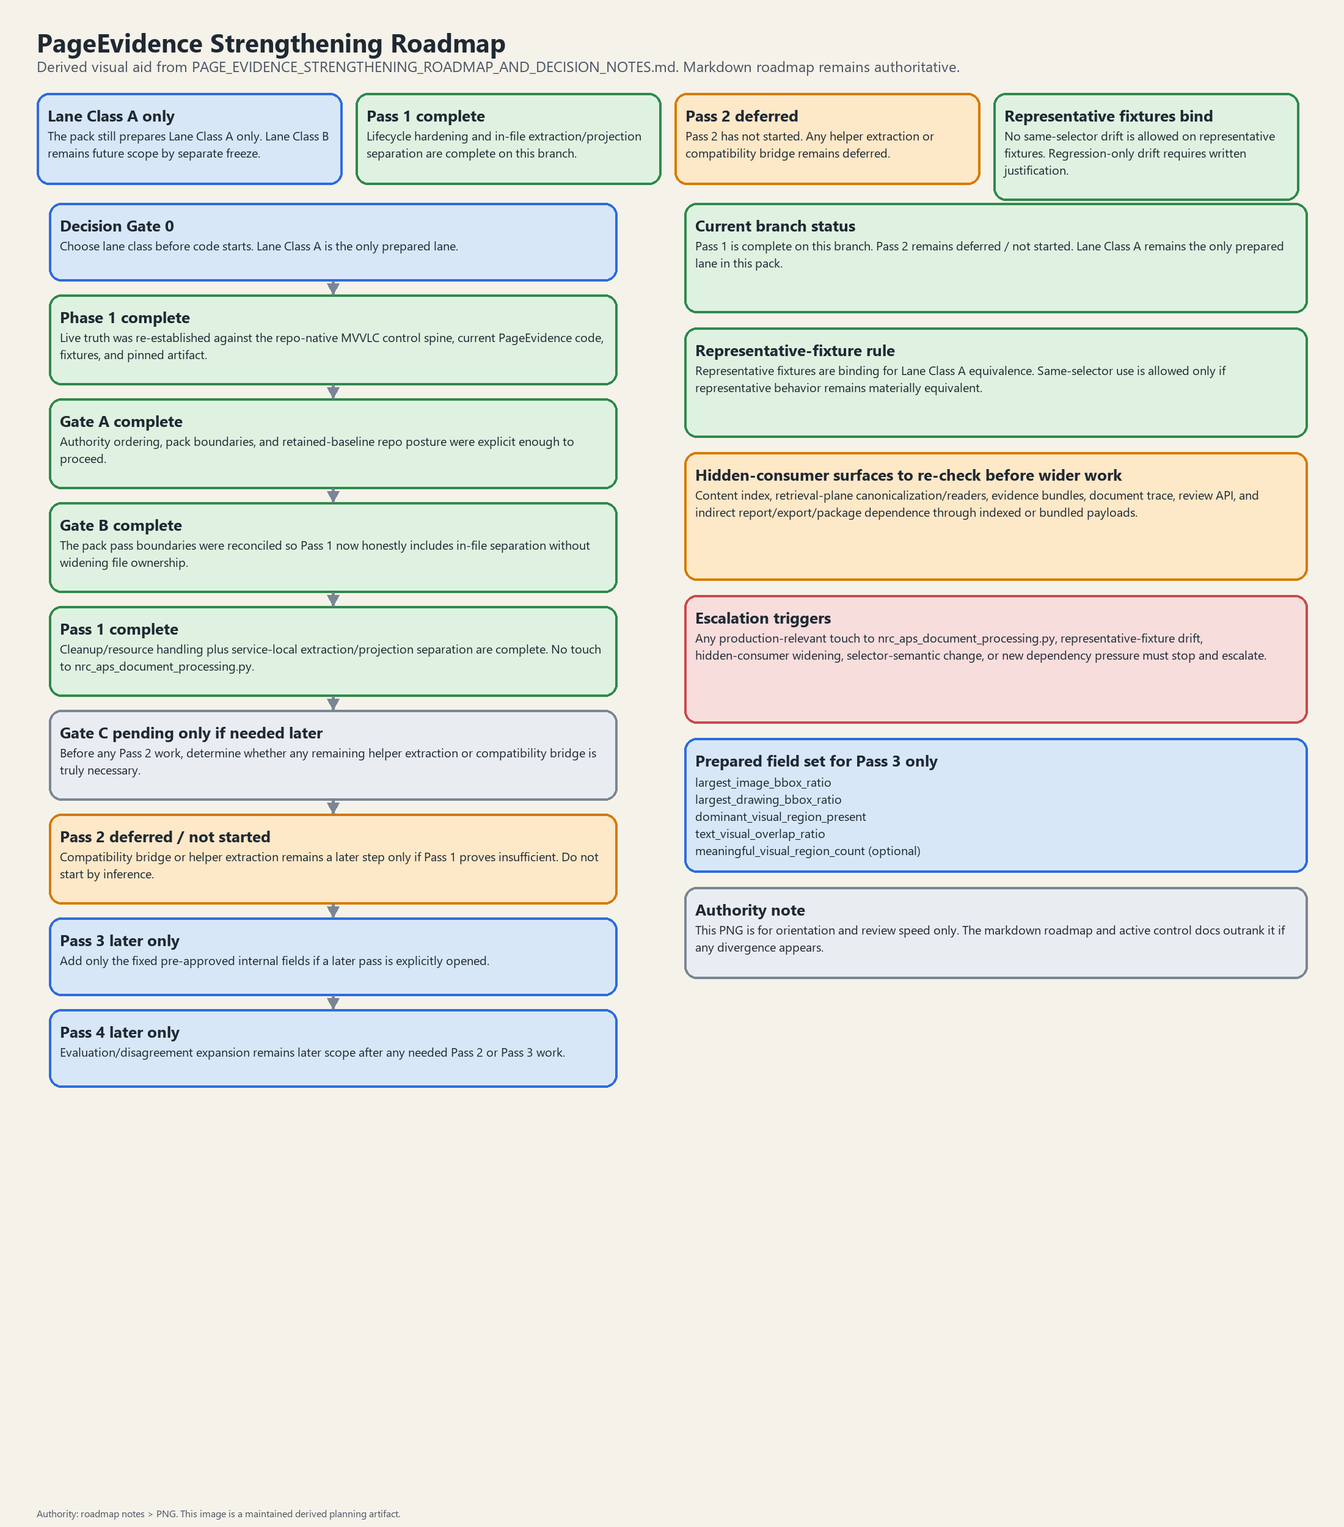
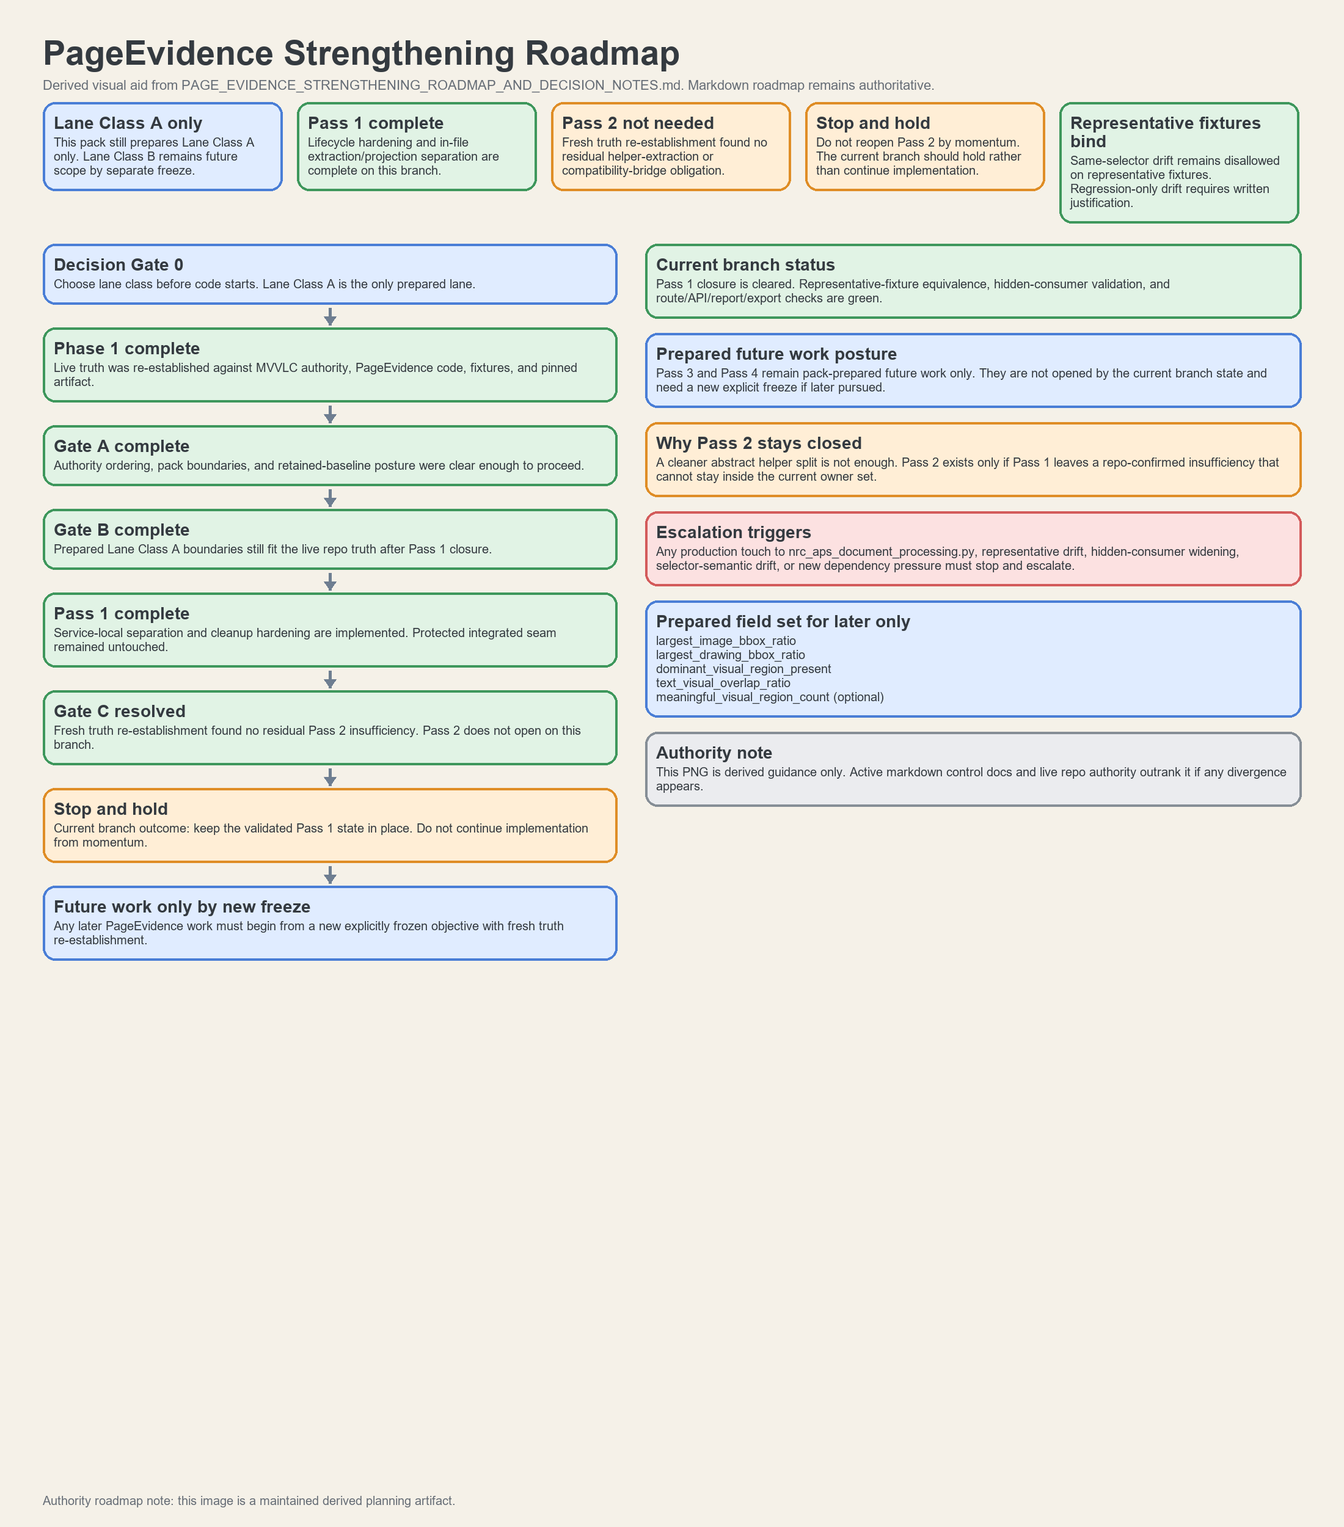
docs(pageevidence): consolidate final closure posture

Changed region(s): [[0.0, 0.0, 0.9891, 0.7176], [0.0309, 0.9672, 0.3091, 0.9984]]

diff --git a/next_milestone_plans/pageevidence/PAGE_EVIDENCE_BLAST_RADIUS_AND_BEFORE_AFTER_TOPOLOGY.md b/next_milestone_plans/pageevidence/PAGE_EVIDENCE_BLAST_RADIUS_AND_BEFORE_AFTER_TOPOLOGY.md
@@ -42,19 +42,29 @@ If it does, the strictest applicable controls govern the whole change set unless
 
 ---
 
-## Current before-state topology
+## Current branch and comparison-baseline topology
 
-### Before-state A — current live reality
+### Before-state A — pre-Pass1 comparison baseline
 
-The current repo topology is:
+The pre-Pass1 baseline topology was:
 
-1. `nrc_aps_page_evidence.py` contains shared evidence extraction, candidate identity, and projected class logic in one place.
+1. At baseline commit `4e89592043867726756aad16805529ae23c8fb6f`, `nrc_aps_page_evidence.py` contained shared evidence extraction, candidate identity, and projected class logic in one place.
 2. `run_nrc_aps_page_evidence_workbench.py` consumes that fused service output and emits a workbench artifact.
 3. `nrc_aps_document_processing.py` contains the admitted Candidate A seam-local helper and consumes PageEvidence-derived signals inside the integrated PDF visual lane.
 4. Hidden-consumer surfaces downstream of processing already exist across content index, models/schemas, retrieval, evidence bundles, review, and report/export chains.
 5. Candidate A is already admitted; `baseline` remains the default for the current horizon.
 
-This before-state must be treated as the source-of-truth topology for all blast-radius judgments.
+This before-state remains the source-of-truth comparison anchor for representative-equivalence, runner-equivalence, and no-drift judgments.
+
+### Current realized branch topology
+
+On the current branch:
+
+1. `nrc_aps_page_evidence.py` now separates shared evidence extraction from Candidate A projection inside the same owner file.
+2. `run_nrc_aps_page_evidence_workbench.py` still consumes the stable service output shape without a helper-extraction or report-compatibility bridge.
+3. `nrc_aps_document_processing.py` remains untouched and still consumes the PageEvidence service through the admitted seam-local helper.
+4. Hidden-consumer validation and route/API/report/export/package closure checks are already green for this branch state.
+5. This realized branch topology is the live truth for deciding whether any later pass is still needed.
 
 ---
 
@@ -296,6 +306,72 @@ Relevant surfaces include at minimum:
 
 - complete hidden-consumer compatibility checklist
 - explicit statement of unaffected / compatible / bridged / blocked status
+
+---
+
+## Pass-scoped default blast-radius expectations
+
+### Pass 1 — lifecycle hardening and in-file separation
+
+Default direct owners:
+
+- `backend/app/services/nrc_aps_page_evidence.py`
+- `backend/tests/test_nrc_aps_page_evidence.py`
+
+Default indirect surfaces that still require proof:
+
+- workbench runner compatibility
+- representative-fixture equivalence
+- targeted integrated Candidate A seam sanity
+
+### Pass 2 — helper extraction / compatibility bridge only if Pass 1 proved insufficient
+
+Default direct owners only if activated:
+
+- `backend/app/services/nrc_aps_page_evidence.py`
+- `tools/run_nrc_aps_page_evidence_workbench.py`
+- `tests/test_nrc_aps_page_evidence_workbench.py`
+- one narrow helper file under `backend/app/services/` if needed
+
+Default indirect surfaces that become active if Pass 2 is truly needed:
+
+- pinned artifact comparability
+- runner/report compatibility meaning
+- possible pressure against the protected integrated seam
+
+Stop rule:
+
+- if these surfaces are not actually implicated by a repo-confirmed insufficiency, do **not** open Pass 2
+
+### Pass 3 — internal evidence-field enrichment only
+
+Default direct owners:
+
+- `backend/app/services/nrc_aps_page_evidence.py`
+- `backend/tests/test_nrc_aps_page_evidence.py`
+
+Default indirect surfaces:
+
+- artifact compatibility expectations
+- hidden-consumer inspect-only review for accidental outward meaning drift
+
+### Pass 4 — disagreement / evaluation expansion
+
+Default direct owners:
+
+- `tools/run_nrc_aps_page_evidence_workbench.py`
+- `tests/test_nrc_aps_page_evidence_workbench.py`
+- one narrow evaluation/disagreement helper under `tools/` if needed
+
+Default indirect surfaces:
+
+- pinned artifact comparability
+- reviewer interpretation of disagreement/report outputs
+
+Interpretation rule:
+
+- every pass must account for both the files it edits and the connection surfaces it activates
+- a later pass that activates no new surfaces should normally be skipped
 
 ---
 

diff --git a/next_milestone_plans/pageevidence/PAGE_EVIDENCE_FILE_TO_TEST_TO_BUNDLE_TRACEABILITY_MATRIX.md b/next_milestone_plans/pageevidence/PAGE_EVIDENCE_FILE_TO_TEST_TO_BUNDLE_TRACEABILITY_MATRIX.md
@@ -19,7 +19,9 @@ This document exists so implementers do not have to synthesize traceability from
 | File / Surface | Typical Change Class | Direct Risk | Indirect Risk | Required Tests / Bundles | Rollback Target | Escalation Trigger |
 |---|---|---|---|---|---|---|
 | `backend/app/services/nrc_aps_page_evidence.py` | `R`, `P`, `C` | core evidence meaning, projection meaning, artifact shape | runner compatibility, admitted Candidate A semantics, historical artifact interpretation | `backend/tests/test_nrc_aps_page_evidence.py`, `tests/test_nrc_aps_page_evidence_workbench.py`, disagreement/evaluation bundle | revert core service change independently if possible | any material Candidate A output drift on representative fixtures |
+| one projection/helper file under `backend/app/services/` (Pass 2 only if needed) | `R`, `C` | extractor/projection boundary semantics, helper import stability | runner compatibility, temptation to widen into the protected integrated seam | service bundle, runner bundle, representative equivalence checks, targeted integrated seam sanity if import/wiring changes | revert helper plus its import wiring together | any need to touch `nrc_aps_document_processing.py` or any representative drift |
 | `tools/run_nrc_aps_page_evidence_workbench.py` | `R`, `C` | workbench artifact shape, report generation, path/timestamp semantics | pinned artifact comparability, durable review of historical outputs | `tests/test_nrc_aps_page_evidence_workbench.py`, disagreement/evaluation bundle | revert runner/report changes independently | artifact meaning or schema drift without compatibility bridge |
+| one evaluation/disagreement helper under `tools/` (Pass 4 only) | `R`, `C` | disagreement/report semantics, deterministic summary meaning | pinned artifact comparability, reviewer interpretation drift | runner bundle, disagreement/evaluation bundle, artifact compatibility checks | revert helper/report path independently | artifact meaning drift or pressure toward outward schema widening |
 | `backend/tests/test_nrc_aps_page_evidence.py` | support | test contract drift | weak guarantees if outdated | service bundle | revert test-only changes or align with final service contract | tests no longer isolate extractor vs projection responsibilities |
 | `tests/test_nrc_aps_page_evidence_workbench.py` | support | runner/report contract drift | durable artifact expectations weaken | runner bundle | revert test-only changes or align with final runner contract | workbench outputs no longer covered by deterministic assertions |
 | `backend/app/services/nrc_aps_document_processing.py` | `R`, `P`, `H` | integrated owner-path behavior, admitted Candidate A semantics | retrieval, evidence bundle, review/report/export, performance | baseline-compat bundle, document-processing tests, hidden-consumer checks, possibly performance gate | separate seam-local commit if possible | any admitted Candidate A behavior drift or downstream persisted-output drift |
@@ -34,6 +36,7 @@ This document exists so implementers do not have to synthesize traceability from
 2. Find the corresponding row in this matrix.
 3. Record the required test/bundle path before implementation begins.
 4. If no row fits cleanly, stop and add one before proceeding.
+5. If no row beyond already-validated surfaces becomes active, do **not** open the next pass only for structural preference.
 
 ---
 

diff --git a/next_milestone_plans/pageevidence/PAGE_EVIDENCE_STRENGTHENING_EXECUTION_PACKET.md b/next_milestone_plans/pageevidence/PAGE_EVIDENCE_STRENGTHENING_EXECUTION_PACKET.md
@@ -26,6 +26,13 @@ This packet prepares a bounded Lane Class A PageEvidence strengthening lane focu
 3. preserves current baseline-default runtime posture
 4. avoids broad outward widening
 
+Current branch status note:
+
+- Pass 1 separation/lifecycle hardening is already implemented and closure-validated on this branch
+- fresh Pass 2 truth re-establishment found no residual helper-extraction or compatibility-bridge obligation
+- the correct current-branch action is therefore Stop and hold unless a new insufficiency is proven later
+- any future implementation work must begin from a new explicitly frozen objective rather than reopening Pass 2 by momentum
+
 ---
 
 ## Pack-prepared lane posture
@@ -202,6 +209,20 @@ The lane must make all of the following true:
 8. no hidden-consumer drift is introduced in retrieval/review/report/export surfaces
 
 If the implementation cannot make all eight true, it is not approve-as-is for this lane.
+
+## Exact Pass 2 necessity rule
+
+Pass 2 is conditional, not automatic.
+
+It exists only if Pass 1 left unresolved separation/compatibility work that cannot stay clean inside the existing owner set.
+
+Pass 2 is **not** justified merely because:
+
+- a separate helper file might look cleaner in the abstract
+- the runner could be reorganized without a repo-confirmed need
+- a fresh worktree exists and could carry more refactor work conveniently
+
+If fresh truth re-establishment on the current branch finds no residual insufficiency, the correct action is Stop and hold rather than reopening implementation.
 
 ---
 
@@ -419,7 +440,7 @@ unless a later explicit broader program freeze actually exists.
 
 ## Immediate next action after this packet
 
-The next justified move is:
+For a pre-implementation branch, the next justified move is:
 
 1. work in a fresh strengthening lane/worktree
 2. implement separation of evidence extraction from projection logic
@@ -427,3 +448,5 @@ The next justified move is:
 4. validate through substrate/projection/disagreement bundles
 5. freeze the lane separately in a final implementation record
 6. only then decide whether any later broader PageEvidence or candidate-neutral substrate work is justified
+
+If the current branch already completed those steps and fresh Gate C truth re-establishment finds no residual insufficiency, stop and hold instead of reopening steps 2-5.

diff --git a/next_milestone_plans/pageevidence/EXACT_PAGE_EVIDENCE_SHARED_EVIDENCE_AND_PROJECTION_SEPARATION_BOUNDARY.md b/next_milestone_plans/pageevidence/EXACT_PAGE_EVIDENCE_SHARED_EVIDENCE_AND_PROJECTION_SEPARATION_BOUNDARY.md
@@ -44,9 +44,15 @@ This strengthening boundary must therefore be read as:
 1. PageEvidence already exists as a dedicated internal service and standalone workbench surface.
 2. Candidate A already exists as the only admitted non-`baseline` selector value through the narrow integrated visual-lane seam.
 3. `baseline` remains the default for the current horizon.
-4. Current PageEvidence still fuses raw evidence extraction with projected visual-page classification.
-5. The current projected class logic is permissive enough that dense-text pages with nonzero drawing/image counts may still be projected as visual.
-6. The outward binary visual contract remains part of the live baseline-facing surface and must not be widened casually.
+4. The pre-Pass1 comparison baseline at `4e89592043867726756aad16805529ae23c8fb6f` used a fully fused PageEvidence service.
+5. The current branch now separates raw evidence extraction from projected visual-page classification inside `backend/app/services/nrc_aps_page_evidence.py`, but does not yet require a separate helper module or runner/report compatibility bridge.
+6. The current projected class logic is still permissive enough that dense-text pages with nonzero drawing/image counts may still be projected as visual.
+7. The outward binary visual contract remains part of the live baseline-facing surface and must not be widened casually.
+
+Interpretation rule:
+
+- do not confuse the historical fused comparison baseline with the current realized branch topology
+- the boundary remains active because in-file separation does not, by itself, justify helper extraction, seam widening, or behavior recalibration
 
 ---
 
@@ -59,6 +65,11 @@ The strengthening lane exists to make all of the following true:
 3. Candidate A can continue to derive a projection from the strengthened evidence layer without reopening broader non-PageEvidence scope.
 4. Internal evidence richness may increase without outward schema or identity widening.
 5. Evaluation discipline becomes stronger through disagreement analysis and calibration-oriented summaries.
+
+Current branch adequacy note:
+
+- the current branch already satisfies items 1-3 inside the existing owner file and runner surface
+- future work should therefore start from a fresh insufficiency finding, not from the stale assumption that separation is still undone
 
 ---
 

diff --git a/next_milestone_plans/pageevidence/PAGE_EVIDENCE_MODULE_COMPONENT_DEPENDENCY_AND_TOUCHPOINT_INVENTORY.md b/next_milestone_plans/pageevidence/PAGE_EVIDENCE_MODULE_COMPONENT_DEPENDENCY_AND_TOUCHPOINT_INVENTORY.md
@@ -24,13 +24,20 @@ Within this separate pack, the prepared implementation posture is:
 - no production touch to `nrc_aps_document_processing.py` in Pass 1
 - optional analysis-only scratch copy of `nrc_aps_document_processing.py` allowed outside `backend`, provided it is non-authoritative and non-runtime
 
+Current branch adequacy note:
+
+- Pass 1 is already complete and closure-validated on this branch
+- fresh truth re-establishment found no residual Pass 2 helper-extraction or compatibility-bridge obligation
+- further work should therefore begin only from a newly proven insufficiency, not from stale assumptions about unfinished separation
+
 ## Core service / runner modules
 
 ### Primary owner surfaces
 
 1. `backend/app/services/nrc_aps_page_evidence.py`
    - current owner of shared evidence extraction
-   - currently also contains projected-class logic and candidate coupling
+   - now also contains an in-file Candidate A projection layer via the Pass 1 split
+   - no separate projection/helper module is currently required
 2. `tools/run_nrc_aps_page_evidence_workbench.py`
    - current standalone runner / report writer
 3. `backend/tests/test_nrc_aps_page_evidence.py`
@@ -44,6 +51,31 @@ Within this separate pack, the prepared implementation posture is:
    - integrated seam that currently consumes Candidate A behavior
 6. `tests/test_nrc_aps_document_processing.py`
    - seam-adjacent regression surface
+
+## Pass-scoped owner interpretation
+
+### Pass 1 realized owner set on this branch
+
+- `backend/app/services/nrc_aps_page_evidence.py`
+- `backend/tests/test_nrc_aps_page_evidence.py`
+
+### Pass 2 owner set only if a real insufficiency is proven later
+
+- `backend/app/services/nrc_aps_page_evidence.py`
+- `tools/run_nrc_aps_page_evidence_workbench.py`
+- `tests/test_nrc_aps_page_evidence_workbench.py`
+- one narrow helper file under `backend/app/services/` if needed
+
+### Pass 3 default owner set
+
+- `backend/app/services/nrc_aps_page_evidence.py`
+- `backend/tests/test_nrc_aps_page_evidence.py`
+
+### Pass 4 default owner set
+
+- `tools/run_nrc_aps_page_evidence_workbench.py`
+- `tests/test_nrc_aps_page_evidence_workbench.py`
+- one narrow evaluation/disagreement helper under `tools/` if needed
 
 ---
 

diff --git a/next_milestone_plans/pageevidence/README_PAGEEVIDENCE_STRENGTHENING_PACK.md b/next_milestone_plans/pageevidence/README_PAGEEVIDENCE_STRENGTHENING_PACK.md
@@ -14,9 +14,11 @@ The pack is built around the current live runtime facts that matter:
 
 - `baseline` remains the current default runtime mode
 - `candidate_a_page_evidence_v1` remains the current admitted non-`baseline` value
-- `backend/app/services/nrc_aps_page_evidence.py` still fuses shared evidence extraction, candidate identity, and projected-class logic
+- `backend/app/services/nrc_aps_page_evidence.py` now separates shared evidence extraction from Candidate A projection inside the existing owner file; no separate projection/helper module is currently required
 - hidden-consumer downstream surfaces remain real and must be treated as compatibility surfaces
 - the current pinned Candidate A workbench artifact remains historically authoritative for workbench/report compatibility and before-state reference unless later explicitly superseded, but it does not override live admitted integrated Candidate A behavior in the owner path
+- the current branch already cleared Pass 1 closure, and fresh truth re-establishment found no residual Pass 2 helper-extraction or compatibility-bridge obligation
+- any future implementation work must begin from a new explicitly frozen objective rather than reopening Pass 2 by momentum
 
 This pack does **not** by itself supersede the live repo's retained-`baseline` stable-hold control posture.
 
@@ -118,6 +120,10 @@ Rule:
 
 - if a rule exists only in an operational companion doc, move that rule into an active control doc before adoption/insertion
 - operational docs should point back to this classification table rather than carrying competing partial authority maps
+- current-branch status notes should distinguish between:
+  - historical comparison baseline
+  - current realized branch state
+  - future pack-prepared but not yet justified work
 
 ## Recommended reading order
 

diff --git a/next_milestone_plans/pageevidence/PAGE_EVIDENCE_STRENGTHENING_ROADMAP_AND_DECISION_NOTES.md b/next_milestone_plans/pageevidence/PAGE_EVIDENCE_STRENGTHENING_ROADMAP_AND_DECISION_NOTES.md
@@ -20,8 +20,10 @@ Current branch status note:
 - Pass 1 is complete on this branch
 - Pass 1 closure gate is cleared on this branch
 - representative-fixture equivalence, hidden-consumer downstream validation, and route/API/report/export/package closure checks are green on this branch
-- Pass 2 remains deferred / not started on this branch
-- Pass 2 may now be considered from a stronger proof base, but it is not started by this roadmap status note
+- fresh Pass 2 truth re-establishment on this branch found no residual Lane Class A helper-extraction or compatibility-bridge obligation
+- Pass 2 is therefore not needed for the current branch state and remains not started
+- the correct next move from this branch is Stop and hold, not convenience Pass 2 work
+- any future implementation work must begin from a new explicitly frozen objective
 
 ---
 
@@ -170,6 +172,10 @@ If no:
 Question:
 - If Pass 1 was not sufficient, can any remaining compatibility bridge or helper extraction be done without touching the admitted Candidate A behavior?
 
+If Pass 1 was sufficient:
+- do **not** open Pass 2
+- stop and hold instead
+
 If yes:
 - remain Lane Class A
 If no:
@@ -198,6 +204,7 @@ After a successful Lane Class A pass, only the following next moves are justifie
 1. **Stop and hold**
    - strengthened substrate in place
    - no further PageEvidence action for current horizon
+   - this is the current branch outcome when fresh truth re-establishment finds no residual Pass 2 insufficiency
 
 2. **Open a bounded future Lane Class B recalibration**
    - only by separate explicit freeze

diff --git a/next_milestone_plans/pageevidence/PAGE_EVIDENCE_PASS_LEVEL_ALLOWED_FILE_MANIFEST.md b/next_milestone_plans/pageevidence/PAGE_EVIDENCE_PASS_LEVEL_ALLOWED_FILE_MANIFEST.md
@@ -6,6 +6,13 @@ Freeze the default allowed-file boundary for each strengthening pass so implemen
 
 This manifest supplements the broader owner boundaries in the execution packet by making the per-pass allowed scope explicit.
 
+Current branch interpretation note:
+
+- this manifest remains a prepared pass-boundary reference
+- it does **not** by itself authorize opening Pass 2-4 on the current branch
+- the current branch is in Stop-and-hold posture after Pass 1 closure
+- any future implementation work must begin from a new explicitly frozen objective before later pass boundaries are activated again
+
 ---
 
 ## General rule for `nrc_aps_document_processing.py`

diff --git a/next_milestone_plans/pageevidence/PAGE_EVIDENCE_PASS_SEQUENCING_AND_COMMIT_CHOREOGRAPHY.md b/next_milestone_plans/pageevidence/PAGE_EVIDENCE_PASS_SEQUENCING_AND_COMMIT_CHOREOGRAPHY.md
@@ -44,6 +44,9 @@ Goals:
 - add temporary compatibility bridge only if required
 - still no production touch to `nrc_aps_document_processing.py` unless escalation is explicitly approved
 
+Skip this pass entirely if Pass 1 already achieved the split cleanly and the required Lane Class A validation remains green.
+If later work is proposed after that hold state, it must begin from a new explicitly frozen objective rather than from this prepared sequencing note alone.
+
 Preferred commit properties:
 - isolated from behavior recalibration
 - may span Step Classes `R` and `C`

diff --git a/next_milestone_plans/pageevidence/PAGE_EVIDENCE_OPERATOR_EXECUTION_SHEET.md b/next_milestone_plans/pageevidence/PAGE_EVIDENCE_OPERATOR_EXECUTION_SHEET.md
@@ -27,6 +27,9 @@ If conflict appears, the README classification table and the active control docs
 - Pass 3: fixed internal evidence-field additions only
 - Pass 4: disagreement/evaluation expansion
 
+If Pass 1 closure is already green and fresh truth re-establishment finds no residual insufficiency, do **not** open Pass 2; stop and hold instead.
+Any future implementation work must begin from a new explicitly frozen objective rather than continuing from this sheet by momentum.
+
 Do **not** start Lane Class B work under this sheet.
 
 ---
